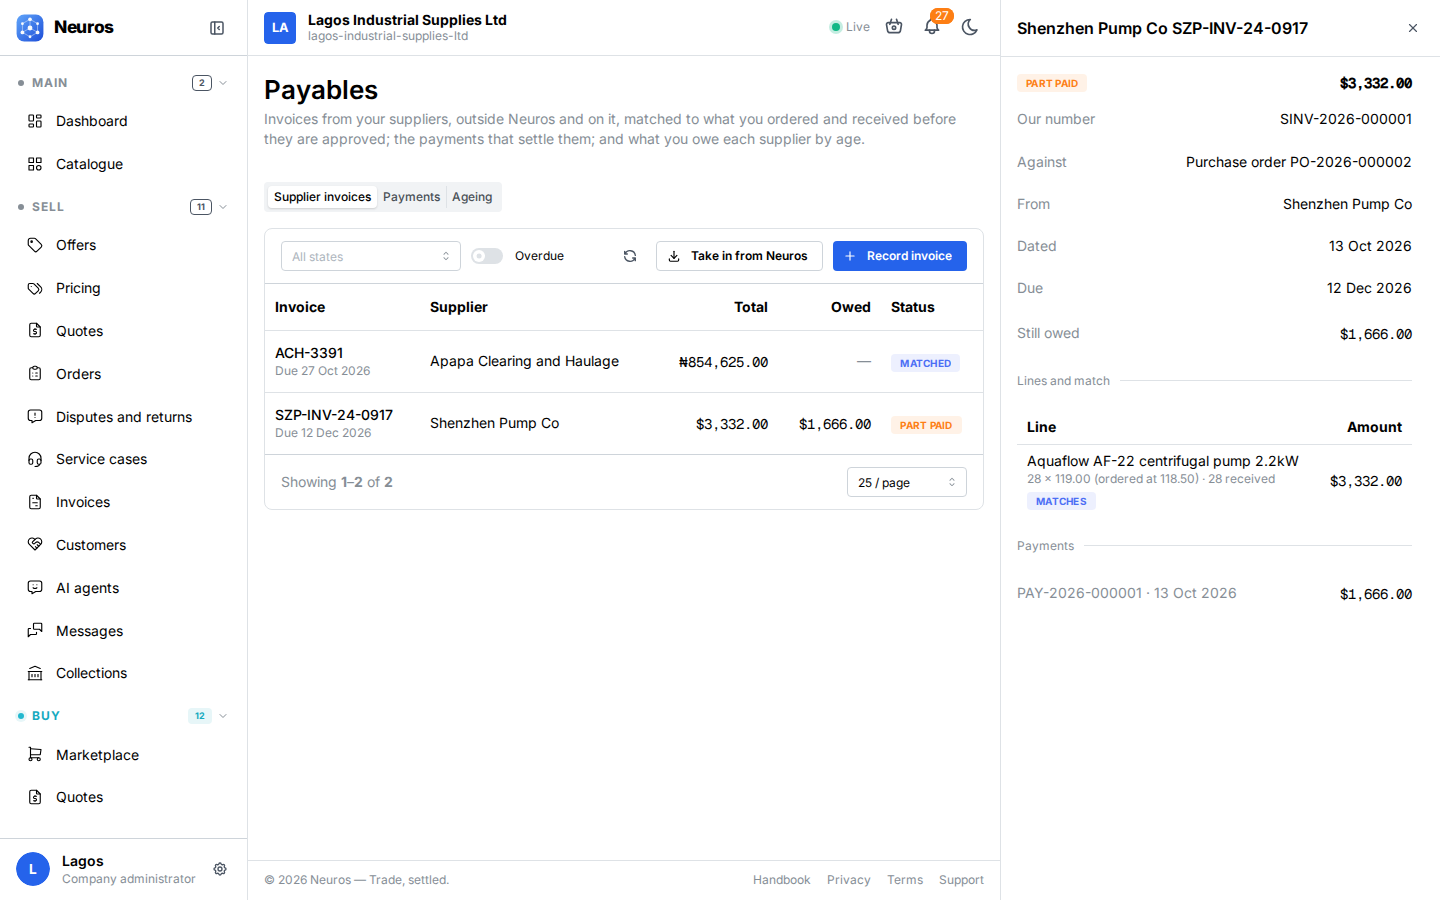
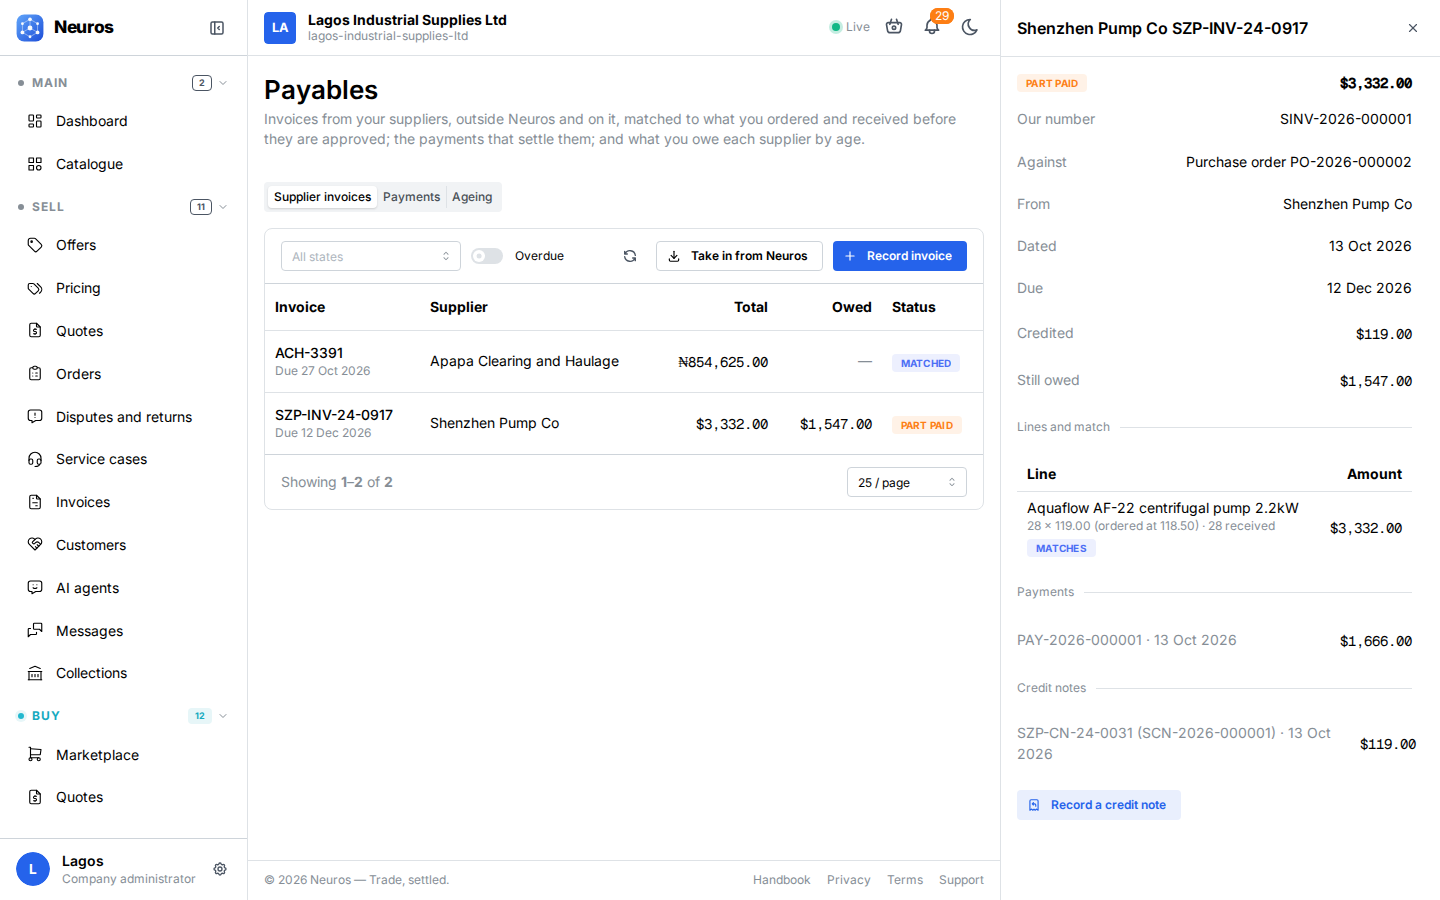
Payables: record a supplier's credit note, shot and section

diff --git a/capture/walk.ts b/capture/walk.ts
@@ -363,8 +363,18 @@ export function walk(w: Walk): Scenario[] {
         ],
       }),
       shot('payables/new', '/buying/payables', 'Record a supplier invoice', { steps: click('Record invoice'), fullPage: true }),
-      shot('payables/detail', '/buying/payables', 'A supplier invoice, matched and approved', {
+      shot('payables/detail', '/buying/payables', 'A supplier invoice, approved, part paid and credited', {
         steps: async (p: Page) => { await p.getByRole('row').filter({ hasText: 'SZP-INV-24-0917' }).first().click(); }, fullPage: true,
+      }),
+      shot('payables/credit', '/buying/payables', 'Record a supplier’s credit note', {
+        steps: async (p: Page) => {
+          await p.getByRole('row').filter({ hasText: 'SZP-INV-24-0917' }).first().click();
+          await p.getByRole('button', { name: 'Record a credit note' }).click();
+          await p.getByLabel('Their credit note number').fill('SZP-CN-24-0044');
+          await p.getByLabel(/^Amount, tax included/).fill('59.50');
+          await p.getByRole('button', { name: 'Record', exact: true }).scrollIntoViewIfNeeded();
+        },
+        fullPage: true,
       }),
       shot('payables/ageing', '/buying/payables?tab=ageing', 'Payables by age'),
     ] : []),
